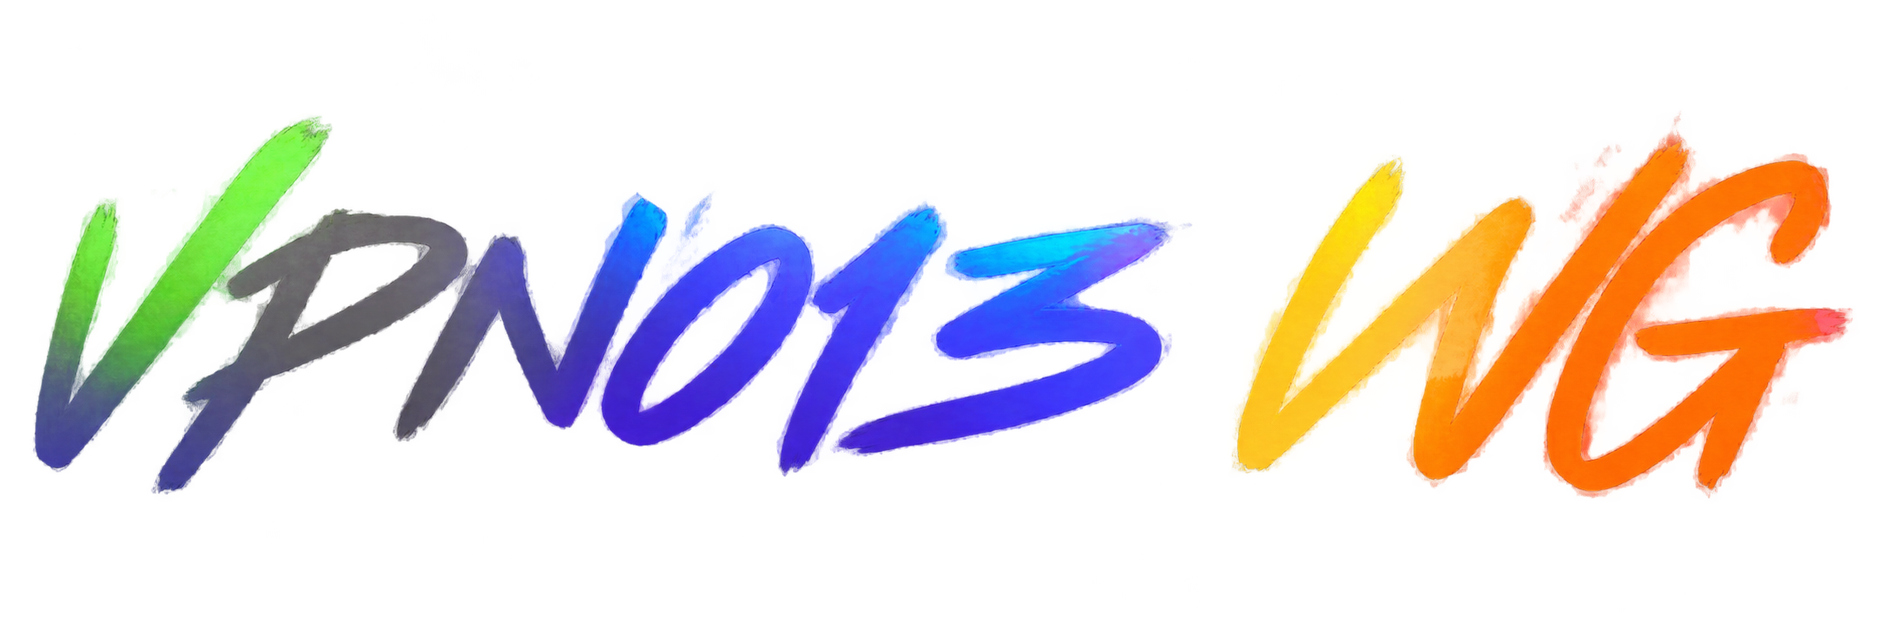
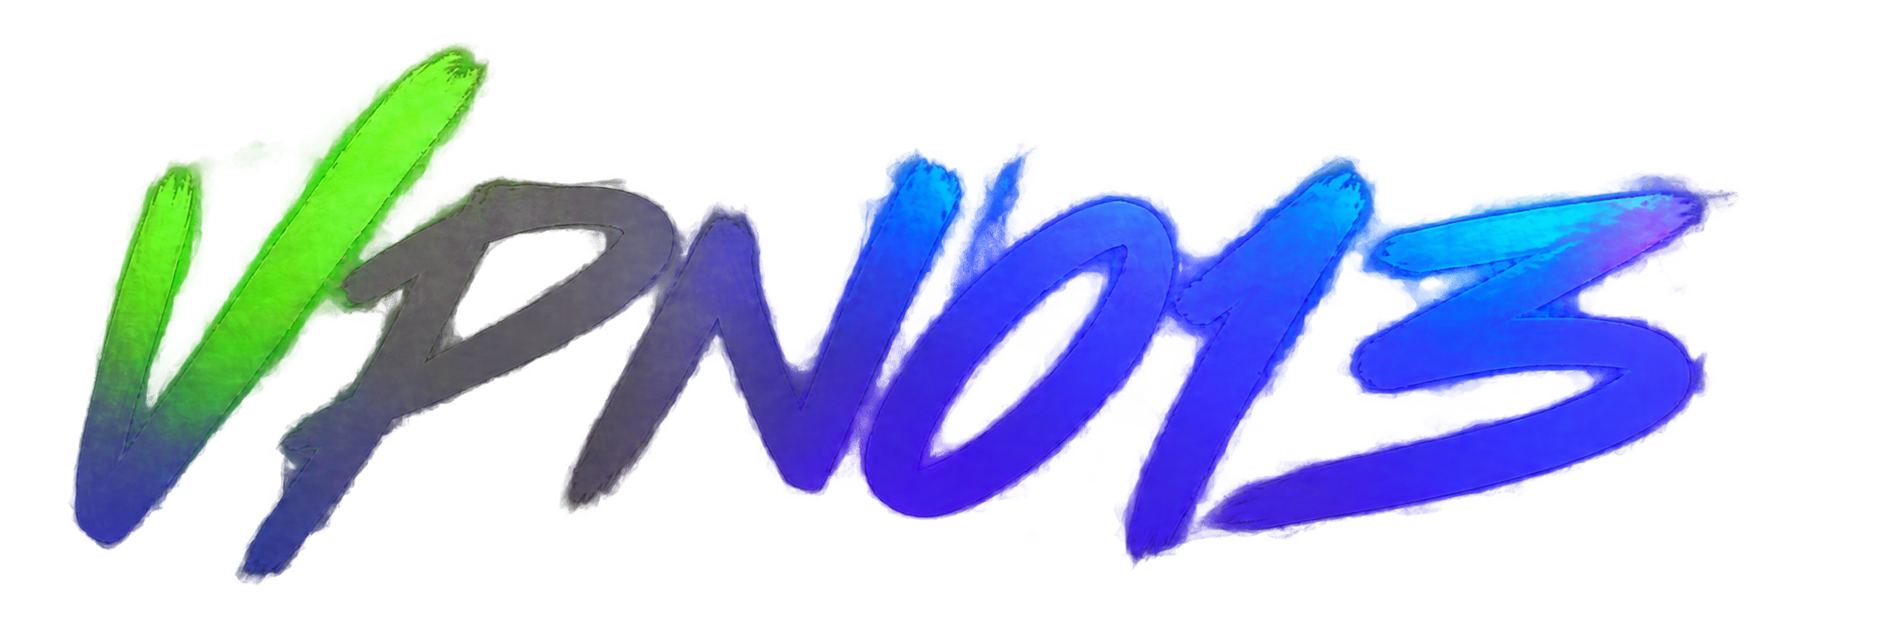
Use VPN013 branding and direct iOS update downloads

diff --git a/overlay/VPN013/ClientUpdatesViewController.swift b/overlay/VPN013/ClientUpdatesViewController.swift
@@ -62,8 +62,8 @@ final class ClientUpdatesViewController: UITableViewController {
                 cell.accessibilityTraits.insert(.button)
                 cell.isUserInteractionEnabled = !coordinator.busy
             } else {
-                cell.textLabel?.text = "Скачать обновление в боте"
-                cell.detailTextLabel?.text = "iOS: скачайте IPA, подпишите своей подписью и установите."
+                cell.textLabel?.text = "Скачать IPA"
+                cell.detailTextLabel?.text = "Прямая загрузка в браузере, без перехода в Telegram. Перед установкой подпишите IPA своим действующим сертификатом."
                 cell.textLabel?.textColor = VPN013Theme.accent
                 cell.accessibilityIdentifier = "vpn013.update-download"
                 cell.accessoryType = .disclosureIndicator
@@ -73,7 +73,7 @@ final class ClientUpdatesViewController: UITableViewController {
             let orders = coordinator.registry.bindings.keys.sorted()
             if orders.isEmpty {
                 cell.textLabel?.text = "Пока нет привязанных заявок"
-                cell.detailTextLabel?.text = "Скачайте свежий ZIP из раздела «Мои заявки» в боте и импортируйте в VPN013 WG."
+                cell.detailTextLabel?.text = "Скачайте свежий ZIP из раздела «Мои заявки» в боте и импортируйте в VPN013."
             } else {
                 let order = orders[path.row]
                 if let binding = coordinator.registry.bindings[order] {
@@ -109,7 +109,7 @@ final class ClientUpdatesViewController: UITableViewController {
         guard path.section == 0 else { return }
         coordinator.presenter = self
         if path.row == 1 { coordinator.check(manager: manager, manual: true) }
-        if path.row == 2 { UIApplication.shared.open(ClientUpdateProtocol.botURL) }
+        if path.row == 2, let release = coordinator.release { ClientReleaseDownload.open(release, from: self) }
     }
     @objc private func unbind(_ recognizer: UILongPressGestureRecognizer) {
         guard recognizer.state == .began, let cell = recognizer.view as? UITableViewCell, let path = tableView.indexPath(for: cell), !coordinator.busy else { return }
@@ -126,6 +126,33 @@ final class ClientUpdatesViewController: UITableViewController {
     private func showError(_ error: Error) {
         let alert = UIAlertController(title: "Обновления", message: error.localizedDescription, preferredStyle: .alert)
         alert.addAction(UIAlertAction(title: "Понятно", style: .default)); present(alert, animated: true)
+    }
+}
+
+/// Public software downloads never carry order capabilities or open Telegram.
+enum ClientReleaseDownload {
+    static func open(_ release: ClientAppRelease, from presenter: UIViewController) {
+        do {
+            try release.validate()
+            guard let url = URL(string: release.downloadURL) else { throw ClientUpdateError.invalidResponse }
+            #if DEBUG && targetEnvironment(simulator)
+            if ProcessInfo.processInfo.arguments.contains("--vpn013-test-direct-download") {
+                let alert = UIAlertController(title: "Прямая загрузка IPA", message: url.absoluteString, preferredStyle: .alert)
+                alert.addAction(UIAlertAction(title: "Понятно", style: .default)); presenter.present(alert, animated: true)
+                return
+            }
+            #endif
+            UIApplication.shared.open(url, options: [:]) { [weak presenter] opened in
+                guard !opened, let presenter = presenter else { return }
+                let alert = UIAlertController(title: "Загрузка IPA", message: "Не удалось открыть прямую ссылку на загрузку. Повторите попытку.", preferredStyle: .alert)
+                alert.addAction(UIAlertAction(title: "Понятно", style: .default))
+                presenter.present(alert, animated: true)
+            }
+        } catch {
+            let alert = UIAlertController(title: "Загрузка IPA", message: "Ссылка на обновление не прошла проверку. Проверьте обновления ещё раз.", preferredStyle: .alert)
+            alert.addAction(UIAlertAction(title: "Понятно", style: .default))
+            presenter.present(alert, animated: true)
+        }
     }
 }
 

diff --git a/overlay/VPN013/UITests.swift b/overlay/VPN013/UITests.swift
@@ -70,6 +70,42 @@ final class AutoTunnelUITests:XCTestCase {
         capture("dynamic-0-creation-disabled")
     }
 
+    func testUpdateDownloadUsesDirectIPAInsteadOfTelegram() {
+        let app = XCUIApplication()
+        app.launchArguments = ["-AppleLanguages", "(ru)", "-AppleLocale", "ru_RU", "--vpn013-test-count", "2", "--vpn013-test-direct-download"]
+        app.launch()
+        XCTAssertTrue(app.buttons["vpn013.updates"].waitForExistence(timeout:20))
+        app.buttons["vpn013.updates"].tap()
+        let download = app.tables.cells.containing(.staticText, identifier: "Скачать IPA").firstMatch
+        XCTAssertTrue(download.waitForExistence(timeout:5))
+        XCTAssertFalse(app.staticTexts["Скачать обновление в боте"].exists)
+        XCTAssertFalse(app.buttons["Перейти в бот"].exists)
+        download.tap()
+        let alert = app.alerts["Прямая загрузка IPA"]
+        XCTAssertTrue(alert.waitForExistence(timeout:5))
+        XCTAssertTrue(alert.staticTexts["https://github.com/2njz45z86r-commits/vpn013-wg-ios/releases/download/unsigned-test/VPN013AWG-unsigned.ipa"].exists)
+        capture("direct-ipa-download-no-telegram-synthetic-ui-fixture")
+        alert.buttons["Понятно"].tap()
+    }
+
+    func testSettingsBrandWordmarkAndVersionUseShortName() {
+        let app = XCUIApplication()
+        app.launchArguments = ["-AppleLanguages", "(ru)", "-AppleLocale", "ru_RU", "--vpn013-test-count", "2"]
+        app.launch()
+        XCTAssertTrue(app.navigationBars["VPN013"].waitForExistence(timeout:20))
+        app.buttons["Настройки"].tap()
+        XCTAssertTrue(app.staticTexts["VPN013"].waitForExistence(timeout:5))
+        let wordmark = app.images["vpn013.settings-wordmark"]
+        for _ in 0..<3 {
+            if wordmark.isHittable { break }
+            app.tables.firstMatch.swipeUp()
+        }
+        XCTAssertTrue(wordmark.exists && wordmark.isHittable)
+        XCTAssertEqual(wordmark.label, "VPN013")
+        XCTAssertFalse(app.staticTexts["VPN013.com WG"].exists)
+        capture("settings-short-name-and-rendered-wordmark-no-domain")
+    }
+
     func testCenteredAddShowsPurchaseAndFreeHour() {
         let app = XCUIApplication()
         app.launchArguments = ["-AppleLanguages", "(ru)", "-AppleLocale", "ru_RU", "--vpn013-test-count", "0"]
@@ -87,7 +123,7 @@ final class AutoTunnelUITests:XCTestCase {
         let app = XCUIApplication()
         app.launchArguments = ["-AppleLanguages", "(ru)", "-AppleLocale", "ru_RU", "--vpn013-test-count", "2"]
         app.launch()
-        XCTAssertTrue(app.navigationBars["VPN013 WG"].waitForExistence(timeout:20))
+        XCTAssertTrue(app.navigationBars["VPN013"].waitForExistence(timeout:20))
         let profile = app.tables.cells.containing(.staticText, identifier:"Личный сервер 1").firstMatch
         XCTAssertTrue(profile.waitForExistence(timeout:5))
         let toggle = profile.switches.firstMatch
@@ -124,7 +160,7 @@ final class AutoTunnelUITests:XCTestCase {
         XCTAssertTrue(app.navigationBars["Новая конфигурация"].waitForExistence(timeout:5))
         capture("09b-native-new-config-form")
         app.navigationBars["Новая конфигурация"].buttons["Отменить"].tap()
-        XCTAssertTrue(app.navigationBars["VPN013 WG"].waitForExistence(timeout:5))
+        XCTAssertTrue(app.navigationBars["VPN013"].waitForExistence(timeout:5))
     }
 
     func testDeveloperFooterAvailable() {
@@ -142,7 +178,7 @@ final class AutoTunnelUITests:XCTestCase {
         XCTAssertTrue(support.isHittable)
         XCTAssertTrue(support.isEnabled)
         XCTAssertTrue(support.label.contains("@R013_Support"))
-        XCTAssertTrue(app.staticTexts["Разработчик VPN013 WG"].exists)
+        XCTAssertTrue(app.staticTexts["Разработчик VPN013"].exists)
         capture("11-dark-thirteen-profile-list-developer-footer-simulator-fixture")
     }
 
@@ -161,7 +197,7 @@ final class AutoTunnelUITests:XCTestCase {
         XCTAssertTrue(support.exists)
         XCTAssertTrue(support.isHittable)
         XCTAssertTrue(support.label.contains("@R013_Support"))
-        XCTAssertTrue(app.staticTexts["Разработчик VPN013 WG"].exists)
+        XCTAssertTrue(app.staticTexts["Разработчик VPN013"].exists)
         XCTAssertTrue(add.isHittable)
         capture("12-dark-empty-list-developer-footer-simulator-fixture")
     }

diff --git a/overlay/Sources/WireGuardApp/UI/iOS/ViewController/TunnelsListTableViewController.swift b/overlay/Sources/WireGuardApp/UI/iOS/ViewController/TunnelsListTableViewController.swift
@@ -7,6 +7,8 @@ import UserNotifications
 
 class TunnelsListTableViewController: UIViewController {
 
+    private static let appDisplayName = "VPN013"
+
     var tunnelsManager: TunnelsManager?
 
     enum TableState: Equatable {
@@ -181,7 +183,8 @@ class TunnelsListTableViewController: UIViewController {
         navigationItem.titleView = nil
         switch tableState {
         case .normal:
-            appTitleLabel.text = "VPN013 WG"
+            appTitleLabel.text = Self.appDisplayName
+            appTitleLabel.accessibilityIdentifier = "vpn013.app-title"
             appTitleLabel.numberOfLines = 1
             appTitleLabel.adjustsFontSizeToFitWidth = true
             appTitleLabel.minimumScaleFactor = 0.65
@@ -211,7 +214,7 @@ class TunnelsListTableViewController: UIViewController {
         if case .multiSelect(let selectionCount) = tableState, selectionCount > 0 {
             navigationItem.title = tr(format: "tunnelsListSelectedTitle (%d)", selectionCount)
         } else {
-            navigationItem.title = "VPN013 WG"
+            navigationItem.title = Self.appDisplayName
         }
         if case .multiSelect = tableState {
             tableView.allowsMultipleSelectionDuringEditing = true
@@ -233,6 +236,11 @@ class TunnelsListTableViewController: UIViewController {
 
     override func viewWillAppear(_ animated: Bool) {
         super.viewWillAppear(animated)
+        if case .normal = tableState {
+            appTitleLabel.text = Self.appDisplayName
+            navigationItem.title = Self.appDisplayName
+            navigationItem.titleView = appTitleLabel
+        }
         if let selectedRowIndexPath = tableView.indexPathForSelectedRow {
             tableView.deselectRow(at: selectedRowIndexPath, animated: false)
         }
@@ -434,7 +442,7 @@ class TunnelsListTableViewController: UIViewController {
 
     private func configureDeveloperFooter() {
         let credit = Self.makeLabel(style: .caption2, color: VPN013Theme.secondaryText)
-        credit.text = "Разработчик VPN013 WG"
+        credit.text = "Разработчик VPN013"
         credit.textAlignment = .center
         let support = UIButton(type: .system)
         var configuration = UIButton.Configuration.plain()
@@ -454,7 +462,7 @@ class TunnelsListTableViewController: UIViewController {
         support.titleLabel?.numberOfLines = 0
         support.titleLabel?.textAlignment = .center
         support.accessibilityIdentifier = "vpn013.developer-support"
-        support.accessibilityLabel = "Написать разработчику VPN013 WG в Telegram, @R013_Support"
+        support.accessibilityLabel = "Написать разработчику VPN013 в Telegram, @R013_Support"
         support.accessibilityHint = "Открыть страницу поддержки"
         support.addTarget(self, action: #selector(developerSupportTapped), for: .touchUpInside)
         support.heightAnchor.constraint(greaterThanOrEqualToConstant: 44).isActive = true

diff --git a/overlay/VPN013/ClientSubscriptions.swift b/overlay/VPN013/ClientSubscriptions.swift
@@ -78,6 +78,12 @@ final class ClientUpdateCoordinator {
             registry = ClientRegistry(); loadingError = nil
             try? store.save(registry)
         }
+        if ProcessInfo.processInfo.arguments.contains("--vpn013-test-direct-download") {
+            release = ClientAppRelease(schema: 1, app: "vpn013-wg", platform: "ios", version: "99.0.0", build: 999,
+                downloadURL: "https://github.com/2njz45z86r-commits/vpn013-wg-ios/releases/download/unsigned-test/VPN013AWG-unsigned.ipa",
+                sha256: String(repeating: "a", count: 64), notes: "Synthetic UI fixture; no external transfer")
+            status = "Доступна тестовая версия 99.0.0."
+        }
         #endif
     }
     private func publish(_ message: String) {
@@ -121,7 +127,7 @@ final class ClientUpdateCoordinator {
                     let version = Bundle.main.object(forInfoDictionaryKey: "CFBundleShortVersionString") as? String ?? "0.0.0"
                     let build = Int(Bundle.main.object(forInfoDictionaryKey: "CFBundleVersion") as? String ?? "0") ?? 0
                     self.release = value.isNewer(version: version, build: build) ? value : nil
-                    appMessage = self.release.map { "Доступна версия \($0.version). Скачайте IPA в боте, подпишите и установите." } ?? "Установлена актуальная версия."
+                    appMessage = self.release.map { "Доступна версия \($0.version). Нажмите «Скачать IPA» для прямой загрузки, затем подпишите и установите файл." } ?? "Установлена актуальная версия."
                     UserDefaults.standard.set(Date(), forKey: "VPN013LastClientUpdateCheck")
                 } catch { appMessage = ClientUpdateError.invalidResponse.localizedDescription }
             case .failure: appMessage = ClientUpdateError.network.localizedDescription
@@ -339,7 +345,10 @@ final class ClientUpdateCoordinator {
     private func showResult() {
         guard let presenter = presenter, presenter.presentedViewController == nil else { return }
         let alert = UIAlertController(title: release == nil ? "Обновления" : "Доступно обновление", message: status, preferredStyle: .alert)
-        if release != nil { alert.addAction(UIAlertAction(title: "Перейти в бот", style: .default) { _ in UIApplication.shared.open(ClientUpdateProtocol.botURL) }) }
+        if let release = release { alert.addAction(UIAlertAction(title: "Скачать IPA", style: .default) { [weak presenter] _ in
+            guard let presenter = presenter else { return }
+            ClientReleaseDownload.open(release, from: presenter)
+        }) }
         alert.addAction(UIAlertAction(title: "Понятно", style: .cancel)); presenter.present(alert, animated: true)
     }
 }

diff --git a/overlay/VPN013/ClientUpdateProtocol.swift b/overlay/VPN013/ClientUpdateProtocol.swift
@@ -7,7 +7,7 @@ enum ClientUpdateError: LocalizedError {
     var errorDescription: String? {
         switch self {
         case .invalidDocument: return "Документ обновления повреждён или не относится к VPN013. Существующие конфигурации сохранены."
-        case .invalidResponse: return "Не удалось проверить полный ответ бота. Существующие конфигурации сохранены."
+        case .invalidResponse: return "Не удалось проверить полный ответ сервера обновлений. Существующие конфигурации сохранены."
         case .accessEnded: return "Доступ к обновлению заявки закончился или отозван. Откройте «Мои заявки» в боте."
         case .network: return "Сервис обновлений недоступен. Проверьте интернет и повторите позже."
         case .localChanges(let name): return "Профиль «\(name)» изменён вручную. Обновление остановлено, чтобы сохранить ваши настройки."
@@ -20,7 +20,6 @@ enum ClientUpdateError: LocalizedError {
 enum ClientUpdateProtocol {
     static let manifestName = "VPN013-Access"
     static let origins = ["https://connect.vpn555.shop:8443", "https://connect.vpn555.shop:8444"]
-    static let botURL = URL(string: "https://t.me/vpn013_com_bot?start=download_vpn013_ios")!
     static let maximumResponseBytes = 1_048_576
     static func digest(_ value: String) -> String { SHA256.hash(data: Data(value.utf8)).map { String(format: "%02x", $0) }.joined() }
     static func validID(_ value: String) -> Bool { value.range(of: "^[a-f0-9]{12}$", options: .regularExpression) != nil }
@@ -89,6 +88,7 @@ struct ClientAppRelease: Codable {
               version.range(of: "^[0-9]+[.][0-9]+[.][0-9]+$", options: .regularExpression) != nil,
               ClientUpdateProtocol.validHash(sha256), notes.count <= 2000,
               let url = URL(string: downloadURL), url.scheme == "https", url.host == "github.com", url.user == nil, url.password == nil,
+              url.port == nil || url.port == 443, url.query == nil, url.fragment == nil,
               url.path.hasPrefix("/2njz45z86r-commits/vpn013-wg-ios/releases/download/"), url.path.hasSuffix(".ipa") else { throw ClientUpdateError.invalidResponse }
     }
     func isNewer(version current: String, build currentBuild: Int) -> Bool {

diff --git a/android-overlay/ui/src/main/java/org/amnezia/awg/r013/ClientUpdates.kt b/android-overlay/ui/src/main/java/org/amnezia/awg/r013/ClientUpdates.kt
@@ -117,7 +117,7 @@ object ClientUpdates {
     }
     fun offerUpdate(activity: AppCompatActivity) {
         if (checking || downloading || resumingInstall) return
-        if (BuildConfig.DEBUG) { message(activity, "Тестовая сборка", "Для обновлений нужна подписанная версия VPN013 WG."); return }
+        if (BuildConfig.DEBUG) { message(activity, "Тестовая сборка", "Для обновлений нужна подписанная версия VPN013."); return }
         checking = true
         activity.lifecycleScope.launch {
             try {
@@ -166,8 +166,8 @@ object ClientUpdates {
         temporary.outputStream().use { out -> out.write(release.toString().toByteArray(Charsets.UTF_8)); out.fd.sync() }
         check(temporary.renameTo(marker)) { "Не удалось сохранить запрос обновления" }
         if (Build.VERSION.SDK_INT >= 26 && !activity.packageManager.canRequestPackageInstalls()) {
-            MaterialAlertDialogBuilder(activity).setTitle("Разрешите обновления VPN013 WG")
-                .setMessage("Android требует один раз разрешить установку из VPN013 WG. Включите разрешение и вернитесь в приложение — установка уже скачанного обновления продолжится. Профили и привязка к заявке сохранятся.")
+            MaterialAlertDialogBuilder(activity).setTitle("Разрешите обновления VPN013")
+                .setMessage("Android требует один раз разрешить установку из VPN013. Включите разрешение и вернитесь в приложение — установка уже скачанного обновления продолжится. Профили и привязка к заявке сохранятся.")
                 .setPositiveButton("Открыть разрешение") { _, _ -> activity.startActivity(Intent(Settings.ACTION_MANAGE_UNKNOWN_APP_SOURCES, Uri.parse("package:${activity.packageName}"))) }
                 .setNegativeButton("Позже") { _, _ -> marker.delete() }
                 .setOnCancelListener { marker.delete() }.show()

diff --git a/android-overlay/ui/src/main/java/org/amnezia/awg/r013/R013HomeActivity.kt b/android-overlay/ui/src/main/java/org/amnezia/awg/r013/R013HomeActivity.kt
@@ -106,7 +106,7 @@ class R013HomeActivity : AppCompatActivity() {
         WindowCompat.getInsetsController(window, root).isAppearanceLightStatusBars = false
         WindowCompat.getInsetsController(window, root).isAppearanceLightNavigationBars = false
         val toolbar = MaterialToolbar(this).apply {
-            title = "VPN013 WG"; setTitleTextColor(color(R.color.r013_text)); setNavigationIcon(R.drawable.ic_r013_settings)
+            title = "VPN013"; setTitleTextColor(color(R.color.r013_text)); setNavigationIcon(R.drawable.ic_r013_settings)
             navigationContentDescription = "Настройки и обновления"; setNavigationIconTint(color(R.color.r013_accent))
             setNavigationOnClickListener { settings() }
             menu.add("Добавить").apply { setIcon(R.drawable.ic_r013_add); setShowAsAction(2) }
@@ -176,7 +176,7 @@ class R013HomeActivity : AppCompatActivity() {
         dialog.setContentView(box); dialog.show()
     }
     private fun settings() {
-        MaterialAlertDialogBuilder(this).setTitle("VPN013 WG").setItems(arrayOf("Обновить конфигурации", "Проверить обновление приложения", "Настройки и журнал", "Купить конфигурацию")) { _, index ->
+        MaterialAlertDialogBuilder(this).setTitle("VPN013").setItems(arrayOf("Обновить конфигурации", "Проверить обновление приложения", "Настройки и журнал", "Купить конфигурацию")) { _, index ->
             when (index) {
                 0 -> lifecycleScope.launch { try { feedback("Проверяем обновления конфигураций…"); feedback(ClientUpdates.refreshOrders()) ; listSignature = "" } catch (e: Exception) { feedback(e.message ?: "Обновление не выполнено") } }
                 1 -> ClientUpdates.offerUpdate(this)

diff --git a/overlay/VPN013/tests/ClientUpdateTests.swift b/overlay/VPN013/tests/ClientUpdateTests.swift
@@ -41,6 +41,18 @@ import Foundation
         try check(plan.removedIDs == ["retired"])
         let release = ClientAppRelease(schema:1,app:"vpn013-wg",platform:"ios",version:"1.4.0",build:9,downloadURL:"https://github.com/2njz45z86r-commits/vpn013-wg-ios/releases/download/unsigned-test/VPN013AWG-unsigned.ipa",sha256:String(repeating:"a",count:64),notes:"Synthetic release")
         try release.validate()
+        for address in [
+            "https://t.me/vpn013_com_bot?start=download_vpn013_ios",
+            release.downloadURL + "?next=https://example.com",
+            release.downloadURL + "#fragment",
+            release.downloadURL.replacingOccurrences(of:"github.com/",with:"github.com:8443/"),
+            release.downloadURL.replacingOccurrences(of:"github.com/",with:"user@github.com/"),
+            release.downloadURL.replacingOccurrences(of:"github.com/",with:"github.com.example.com/"),
+            release.downloadURL.replacingOccurrences(of:"https://",with:"http://"),
+            release.downloadURL.replacingOccurrences(of:"2njz45z86r-commits/vpn013-wg-ios",with:"other/project")
+        ] {
+            fails { try ClientAppRelease(schema:1,app:"vpn013-wg",platform:"ios",version:release.version,build:release.build,downloadURL:address,sha256:release.sha256,notes:"Synthetic release").validate() }
+        }
         try check(release.isNewer(version:"1.3.1",build:8))
         try check(release.isNewer(version:"1.4.0",build:8))
         try check(!release.isNewer(version:"1.4.0",build:9))

diff --git a/overlay/VPN013/PrivateTunnelStore.swift b/overlay/VPN013/PrivateTunnelStore.swift
@@ -6,7 +6,7 @@ enum PrivateStoreError: LocalizedError {
     case invalidEnvelope, missingKey, oversized, keyConflict
     var errorDescription: String? {
         switch self {
-        case .missingKey: return "Один раз включите этот VPN из VPN013 WG, чтобы подготовить защищённое хранилище расширения. Если приложение переустановлено, импортируйте прежний ZIP."
+        case .missingKey: return "Один раз включите этот VPN из VPN013, чтобы подготовить защищённое хранилище расширения. Если приложение переустановлено, импортируйте прежний ZIP."
         case .oversized: return "Конфигурация слишком велика для защищённого профиля."
         case .keyConflict: return "Ключ защищённого профиля не совпадает. Создайте профиль заново из прежних конфигураций."
         case .invalidEnvelope: return "Не удалось проверить зашифрованную конфигурацию."

diff --git a/overlay/Sources/WireGuardApp/UI/iOS/ViewController/SettingsTableViewController.swift b/overlay/Sources/WireGuardApp/UI/iOS/ViewController/SettingsTableViewController.swift
@@ -14,7 +14,7 @@ class SettingsTableViewController: UITableViewController {
 
         var localizedUIString: String {
             switch self {
-            case .iosAppVersion: return tr("settingsVersionKeyWireGuardForIOS")
+            case .iosAppVersion: return "VPN013"
             case .goBackendVersion: return tr("settingsVersionKeyWireGuardGoBackend")
             case .exportZipArchive: return tr("settingsExportZipButtonTitle")
             case .viewLog: return tr("settingsViewLogButtonTitle")
@@ -54,10 +54,10 @@ class SettingsTableViewController: UITableViewController {
         tableView.register(KeyValueCell.self)
         tableView.register(ButtonCell.self)
 
-        let brand = UIImageView(image: UIImage(named: "VPN013Wordmark"))
+        let brand = UIImageView(image: UIImage(named: "VPN013WordmarkNoDomain"))
         brand.contentMode = .scaleAspectFit
         brand.isAccessibilityElement = true
-        brand.accessibilityLabel = "VPN013 WG"
+        brand.accessibilityLabel = "VPN013"
         brand.accessibilityIdentifier = "vpn013.settings-wordmark"
         tableView.tableFooterView = brand
     }

diff --git a/android-overlay/ui/src/main/java/org/amnezia/awg/preference/VersionPreference.kt b/android-overlay/ui/src/main/java/org/amnezia/awg/preference/VersionPreference.kt
@@ -27,7 +27,7 @@ class VersionPreference(context: Context, attrs: AttributeSet?) : Preference(con
 
     override fun getSummary() = versionSummary
 
-    override fun getTitle() = "VPN013 WG ${BuildConfig.VERSION_NAME}"
+    override fun getTitle() = "VPN013 ${BuildConfig.VERSION_NAME}"
 
     override fun onClick() {
         val intent = Intent(Intent.ACTION_VIEW)

diff --git a/windows/prepare-ci-source.py b/windows/prepare-ci-source.py
@@ -55,7 +55,7 @@ build_r013.write_text(build_r013_text.replace(icon_anchor,
     "Copy-Item -LiteralPath ui/icon/vpn013.ico -Destination ui/icon/wireguard.ico -Force\n" + icon_anchor), encoding='utf-8', newline='\n')
 about = root / 'ui/aboutdialog.go'
 about_text = about.read_text(encoding='utf-8')
-for old,new in [('About AmneziaWG','О VPN013 WG'),('https://amnezia.org/','https://vpn013.com/'),('AmneziaWG logo image','VPN013 WG'),('wgLbl.SetText("AmneziaWG")','wgLbl.SetText("VPN013 WG")')]:
+for old,new in [('About AmneziaWG','О VPN013'),('https://amnezia.org/','https://vpn013.com/'),('AmneziaWG logo image','VPN013'),('wgLbl.SetText("AmneziaWG")','wgLbl.SetText("VPN013")')]:
     assert old in about_text
     about_text=about_text.replace(old,new)
 # Copyright/licensing text is retained verbatim.
@@ -68,7 +68,7 @@ about_text = about_text[:wordmark_start] + '''\twordmark, err := walk.NewImageVi
 \tdefer brand.Dispose()
 \twordmark.SetImage(brand)
 \twordmark.SetMinMaxSize(walk.Size{330,110},walk.Size{330,110})
-\twordmark.Accessibility().SetName("VPN013 WG")
+\twordmark.Accessibility().SetName("VPN013")
 ''' + about_text[wordmark_end:]
 about.write_text(about_text,encoding='utf-8',newline='\n')
 # Keep the original protocol fixture in the same millisecond units as the
